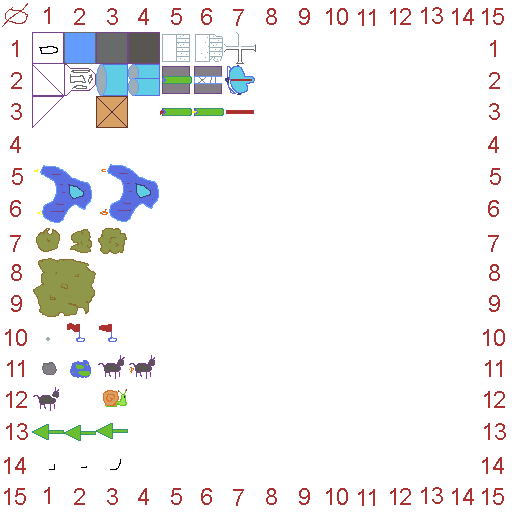
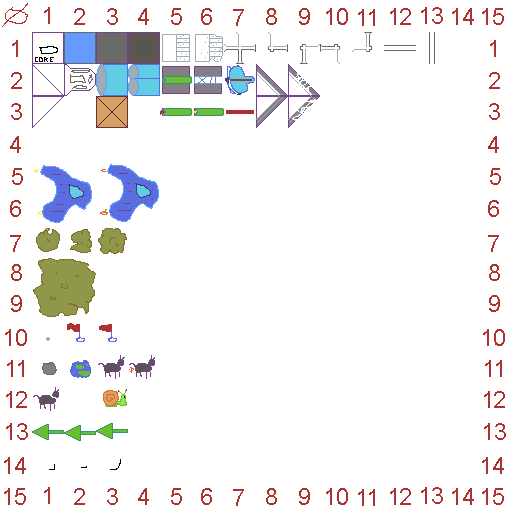
lots of new junk pieces

Changed region(s): [[0.5, 0.125, 0.625, 0.25], [0.0625, 0.0938, 0.0938, 0.125]]

diff --git a/src/ludumDare43/actors/shipPartsData.ts b/src/ludumDare43/actors/shipPartsData.ts
@@ -53,6 +53,96 @@ let wing2: IShipPartData = {
   mass: 0.5,
 }
 datas.push(wing2)
+
+let sd: IShipPartData = {
+  name: 'wing-armor-1d',
+  frame: spriteUtil.frame32(2, 9),
+  noTop: true,
+  noRight: true,
+  mass: 0.75,
+  notSpawnable: true,
+}
+datas.push(sd)
+s = {
+  name: 'wing-armor-1',
+  frame: spriteUtil.frame32(2, 8),
+  noTop: true,
+  noRight: true,
+  mass: 1,
+  damagesTo: sd,
+}
+datas.push(s)
+
+sd = {
+  name: 'wing-armor-2d',
+  frame: spriteUtil.frame32(3, 9),
+  noBottom: true,
+  noRight: true,
+  mass: 0.75,
+  notSpawnable: true,
+}
+datas.push(sd)
+s = {
+  name: 'wing-armor-2',
+  frame: spriteUtil.frame32(3, 8),
+  noBottom: true,
+  noRight: true,
+  mass: 1,
+  damagesTo: sd,
+}
+datas.push(s)
+
+s = {
+  name: 'tr',
+  frame: spriteUtil.frame32(1, 8),
+  noBottom: true,
+  noLeft: true,
+  mass: 0.25,
+}
+datas.push(s)
+s = {
+  name: 'br',
+  frame: spriteUtil.frame32(1, 9),
+  noTop: true,
+  noLeft: true,
+  mass: 0.25,
+}
+datas.push(s)
+s = {
+  name: 'bl',
+  frame: spriteUtil.frame32(1, 10),
+  noTop: true,
+  noRight: true,
+  mass: 0.25,
+}
+datas.push(s)
+s = {
+  name: 'tl',
+  frame: spriteUtil.frame32(1, 11),
+  noBottom: true,
+  noRight: true,
+  mass: 0.25,
+}
+datas.push(s)
+
+s = {
+  name: 'h',
+  frame: spriteUtil.frame32(1, 12),
+  noBottom: true,
+  noTop: true,
+  mass: 0.25,
+}
+datas.push(s)
+
+s = {
+  name: 'v',
+  frame: spriteUtil.frame32(1, 13),
+  noLeft: true,
+  noRight: true,
+  mass: 0.25,
+}
+datas.push(s)
+
 let cockpit: IShipPartData = {
   name: 'cockpit-1',
   frame: spriteUtil.frame32(2, 2),
